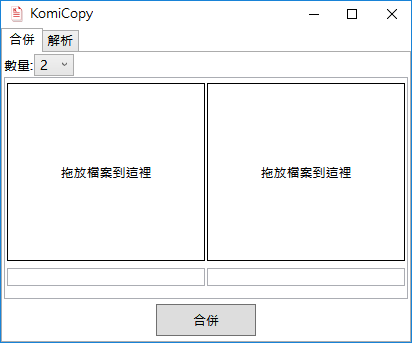
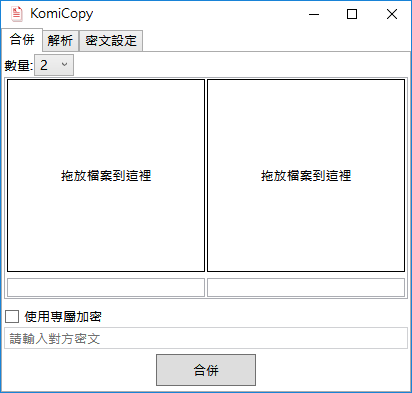
Update version number Update preview1.png Update README

diff --git a/KomiCopy/Properties/AssemblyInfo.cs b/KomiCopy/Properties/AssemblyInfo.cs
@@ -51,5 +51,5 @@ using System.Windows;
 // 您可以指定所有的值，也可以依照以下的方式，使用 '*' 將組建和修訂編號
 // 指定為預設值: 
 // [assembly: AssemblyVersion("1.0.*")]
-[assembly: AssemblyVersion("1.0.0.416")]
-[assembly: AssemblyFileVersion("1.0.0.416")]
+[assembly: AssemblyVersion("2.0.0.640")]
+[assembly: AssemblyFileVersion("2.0.0.640")]

diff --git a/README.md b/README.md
@@ -16,3 +16,38 @@
 2. 拖放要解析的檔案到欄位中  
 3. 點擊分解  
 解析成功後，即可在同一資料夾內看到原本被附加合併的檔案  
+
+##加密功能
+###加密方
+若要使用加密功能需要**先取得對方密文**(Base58編碼字串)  
+並在合併時勾選"使用專屬加密"後將對方密文貼入下方空白欄位中  
+再點擊合併，即可產生只有對方可以解密的檔案  
+
+###解密方
+接收方/解密者 需要先公布自己密文讓對方取得  
+切換至 密文設定 頁面即可看到自己的密文  
+當對方使用你的密文進行專屬加密後，就只有產生此密文的你可以解密那份檔案  
+**因此請勿在未完成解密前重新建立新的密文**  
+這樣會導致你再也無法解密對方用你前一次密文加密的檔案  
+若你確定沒有要解密的檔案，就可任意重建新密文，但程式只會記錄最新的一組  
+
+###加密方法
+加密功能採用ECC + AES混合加密  
+ECC使用secp128r2定義橢圓(OID:1.3.132.0.29)
+AES使用隨機產生2組GUID(32byte)作為KEY和1組隨機產生GUID(16byte)作為IV
+
+1. 先合併除第一個檔案外的所有附加檔  
+2. 以AES對合併後的所有附加檔進行加密  
+	2-1. 隨機產生3組GUID  
+	2-2. 前2組串接為32byte資料作為AES加密密鑰(Key: 256bit)  
+	2-3. 第3組作為AES加密向量值(IV: 128bit)  
+3. 以ECC對AES的密鑰與向量值進行加密  
+	3-1. 取出AES加密檔案的前8個byte當作ECC加密的derivation參數  
+	3-2. 將derivation參數反轉後當作ECC加密的encoding參數  
+	3-3. 將AES的密鑰與向量值串接成32byte + 16byte資料  
+	3-4. 以對方公鑰密文資料和3-1, 3-2步驟的derivation、encoding為參數，對AES的密鑰與向量值資料進行加密  
+4. 依序寫入資料產生封裝檔  
+	4-1. 加密者的ECC公鑰(供對方解密時金鑰交換使用)  
+	4-2. 以ECC加密過的AES密鑰和向量值資料  
+	4-3. 以AES加密過的合併附加檔  
+※寫入每個資料前皆會插入識別字以區隔資料
